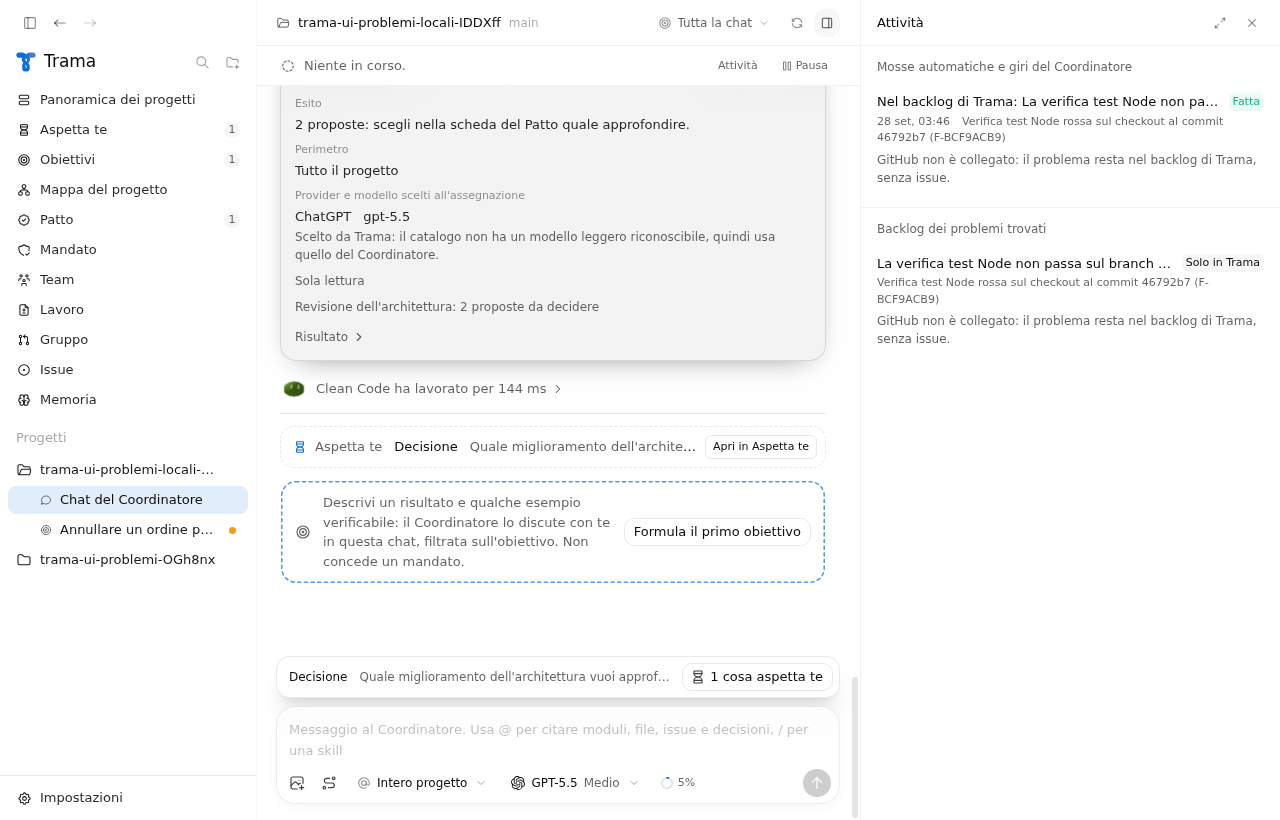
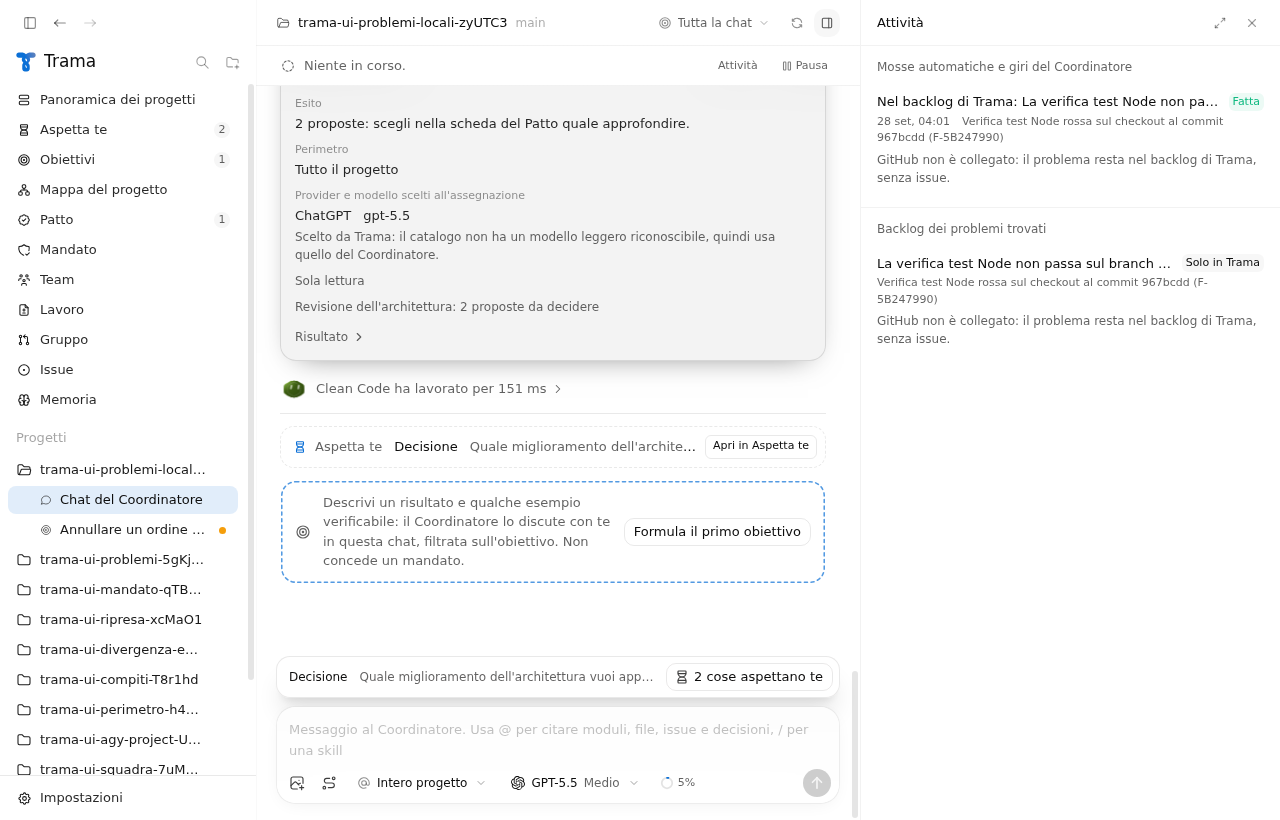
docs: record the A08 check of the issues the Coordinator opens
Claude-Session: https://claude.ai/code/session_01RxRkF9tpcC3jgeCYFcvuui

diff --git a/docs/verifiche/a08-problemi-trovati-2026-09-28.md b/docs/verifiche/a08-problemi-trovati-2026-09-28.md
@@ -1,0 +1,45 @@
+# A08: il Coordinatore apre e smista da solo le issue dei problemi che trova
+
+Data: 28 settembre 2026. Issue #248, specifica #239 (Q10), ADR 0017. Base: `origin/main` 082fc93.
+
+## Cosa è stato verificato
+
+Tutte le prove usano il Codex finto (`app/test-fixtures/fake-codex.mjs`) e un `gh` finto. Nessuna esecuzione reale di un provider e nessuna scrittura su un repository GitHub reale.
+
+- `npx tsc --noEmit -p .`: nessun errore.
+- `npx vitest run`: 122 file, 1187 test superati, 3 saltati.
+- `npm run build`: riuscito.
+- `xvfb-run -a node scripts/ui-check.mjs`: una corsa completa, uscita 0, 306 schermate. Passi nuovi: `27a-found-problem-issue`, `27b-found-problem-recap`, `27c-found-problem-local-backlog`, ognuno con Codex e Claude, in chiaro e in scuro.
+
+## Comportamento
+
+- Trama riconosce un problema fuori dal lavoro in corso con regole sue, mai con il giudizio del modello:
+  - una verifica rossa sul checkout del progetto;
+  - una verifica della suite rossa sul candidato e anche sulla sua base, quindi non causata dal candidato;
+  - un rilievo non bloccante di un revisore su un file che il candidato non cambia.
+- Ogni record si legge una volta. I record precedenti al primo sguardo di Trama sul progetto non sono problemi nuovi.
+- Un problema ha una chiave (`check:<verifica>` o `finding:<ruolo>:<file>:<titolo>`). Finché la issue di un problema è aperta, lo stesso problema trovato di nuovo, per esempio la stessa verifica rossa su un altro commit, non crea un secondo problema. Dopo la chiusura della issue sì.
+- Prima di aprire una issue Trama rilegge le issue da GitHub e cerca una issue aperta con il segno del problema nel testo (`<!-- trama-problem: ... -->`) o con lo stesso titolo. Se c'è, la collega e non ne apre un'altra.
+- La issue nuova porta l'etichetta del repository per `needs-triage`, letta da `docs/agents/triage-labels.md` quando c'è, altrimenti il nome della skill. Il testo contiene cosa ha visto Trama e la prova: l'id della verifica fallita o del cancello del candidato.
+- La issue entra nella regola delle issue nuove: il bug triage la smista con `triage`. Dopo l'esito Trama applica le etichette dello stato e della categoria del repository e toglie `needs-triage`. Il commento proposto dal triage resta una scelta della persona.
+- Dopo il triage Trama assegna la issue all'incarico che lavora già sul problema (un incarico sulla stessa issue o la correzione di un bug riprodotto dalla diagnosi della stessa verifica) oppure la mette nel backlog. Una voce del backlog passa all'incarico quando un incarico inizia a lavorarci. Una issue già aperta e collegata si smista subito.
+- Attività elenca ogni passo: issue aperta o collegata, issue non aperta con il motivo, backlog o incarico con il motivo e l'esito del triage, con il pulsante "Apri la issue" a destra. Sotto, la sezione "Backlog dei problemi trovati".
+- Il riepilogo cita in "Cosa ho fatto" le issue aperte dal Coordinatore, con il numero. Una issue solo collegata non viene citata come aperta.
+- Senza GitHub collegato il problema diventa una voce del backlog in Trama, "Solo in Trama", senza issue.
+- Per aprire le issue serve un mandato concesso. In pausa e nel progetto di esempio non parte niente. Un tentativo fallito di aprire la issue o di applicare le etichette si ripete dopo cinque minuti.
+
+## Test
+
+- `app/src/main/core/problems.test.ts`: deduplicazione per chiave, per record letto e dopo la chiusura della issue; nessun problema dai record precedenti; problemi dal cancello (verifica rossa anche sulla base, rilievo fuori dal candidato) e casi esclusi; ricerca della issue aperta per segno o titolo; testo della issue; mappa delle etichette del repository; smistamento nel backlog, attesa del triage, assegnazione alla correzione anche dal backlog; backlog locale senza GitHub; intervallo dopo un tentativo fallito; voci di Attività e citazione nel riepilogo.
+- `app/src/main/problems.integration.test.ts`: prova con un repository di prova simulato da un `gh` finto che conserva le issue in un file. Una verifica rossa apre una sola issue con l'etichetta mappata del repository e la prova, il triage la smista, Trama applica le etichette e la smista; la stessa verifica rossa di nuovo non apre una seconda issue; il riepilogo cita la issue. Con una issue aperta sullo stesso problema Trama la collega. Senza GitHub il problema resta nel backlog di Trama.
+
+## Schermate
+
+Prima (`origin/main` e1ca179) e dopo, in chiaro e in scuro: `a08-problemi-trovati/`. Le schermate "prima" mostrano Attività dopo la stessa verifica rossa: nessuna issue e nessuna voce. Le schermate "dopo" vengono dai passi `27a`, `27b` e `27c` della corsa completa di `ui-check`.
+
+## Limiti
+
+- Le fonti sono solo quelle elencate sopra. Un problema che il Coordinatore o un agente descrive a parole non apre una issue: serve una prova che Trama sa leggere.
+- La prova su GitHub usa un `gh` finto. Non è stata fatta una prova su un repository GitHub reale.
+- La ricerca dei duplicati guarda il segno di Trama e il titolo. Una issue scritta a mano sullo stesso problema con un titolo diverso non viene riconosciuta.
+- Il backlog non ha ancora un ordine manuale né gli sprint: la sezione di Attività elenca le voci dalla più vecchia.
